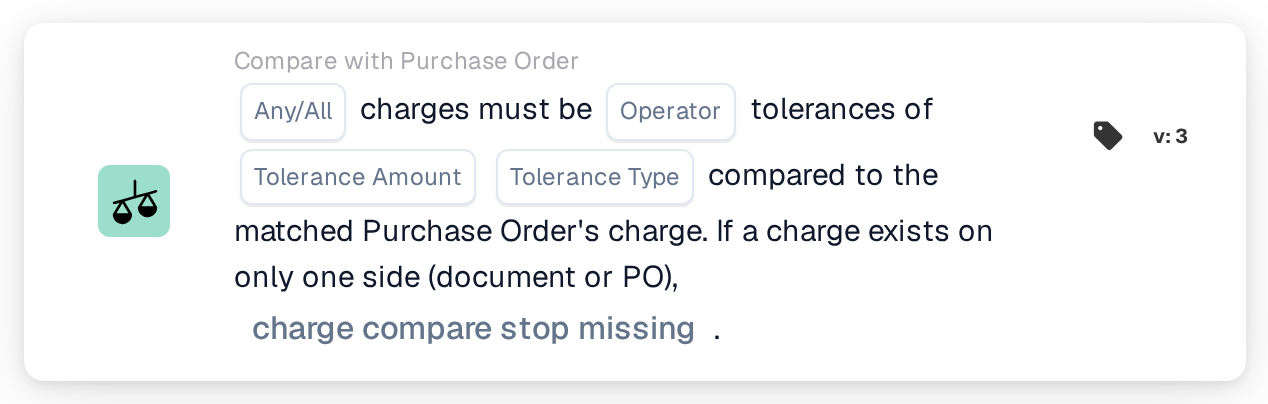
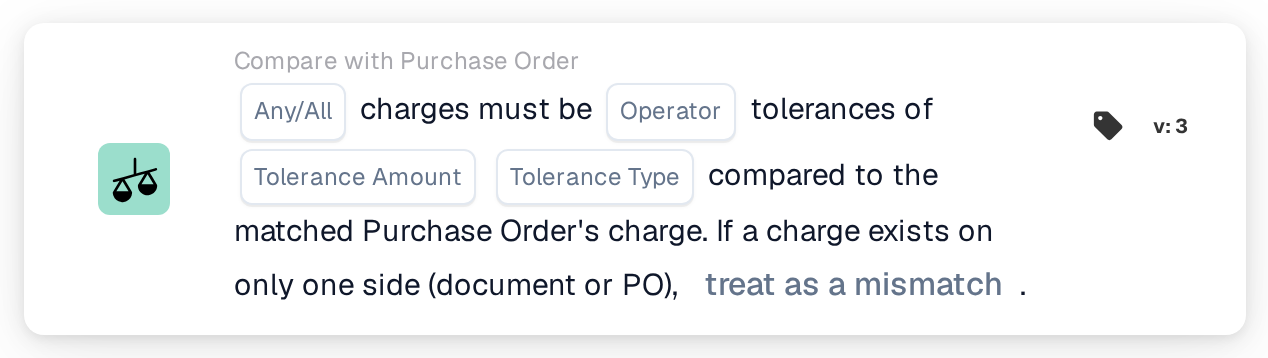
[Documentation_Workflow_Cards] [DRFS-871] add compare charges to po v4

diff --git a/public_docs/administration-and-setup/workflow/cards-overview/and/compare-with-purchase-order/any-all-charges.md b/public_docs/administration-and-setup/workflow/cards-overview/and/compare-with-purchase-order/any-all-charges.md
@@ -4,6 +4,8 @@
 
 <figure><img src="../../../../../.gitbook/assets/workflow_card_condition_compare_charges_to_po_v3.png" alt="Workflow card Compare with Purchase Order: Any/All charges must be Operator tolerances of Tolerance Amount Tolerance Type compared to the matched purchase order&#x27;s charge, with a setting for charges that exist on only one side, version 3" width="634"><figcaption><p>Version 3</p></figcaption></figure>
 
+<figure><img src="../../../../../.gitbook/assets/workflow_card_condition_compare_charges_to_po_v4.png" alt="Workflow card Compare with Purchase Order: Any/All charges must be Operator tolerances of Tolerance Amount Tolerance Type compared to the matched Purchase Order&#x27;s charge; a charge of 0.00 is compared as well. If a charge exists on only one side (document or PO), Missing Data Behaviour, version 4" width="634"><figcaption><p>Version 4</p></figcaption></figure>
+
 ## **Purpose:**
 
 This workflow card compares the additional charges on a document against the additional charges on the matched purchase order, within a defined tolerance. It answers one question: do the document and the purchase order agree about the additional costs? Every charge that purchase order matching paired up is compared, so no field name has to be named on the card.
@@ -31,8 +33,8 @@ Purchase order matching has to run before this card. If the document has no matc
    * **Options**:
      * **Percentage**: a percentage of the purchase order charge.
      * **Value**: a fixed amount.
-5. **Missing Data Behaviour (version 3 only):**
-   * **Description**: What to do when a charge exists on only one side, document or purchase order, so there is no counterpart to compare it against. The option sits at the end of the version 3 sentence.
+5. **Missing Data Behaviour (versions 3 and 4):**
+   * **Description**: What to do when a charge exists on only one side, document or purchase order, so there is no counterpart to compare it against. The option sits at the end of the sentence.
    * **Options**:
      * **treat as a mismatch**: the workflow stops. This is the default.
      * **ignore it and treat as a match**: the workflow continues as if the charge agreed.
@@ -43,7 +45,7 @@ The card runs through the following steps.
 
 1. **It requires a matched purchase order.** With no matched purchase order the card stops immediately and reports missing data.
 2. **It reads the tolerance** from the **Tolerance Amount** and **Tolerance Type** set on the card.
-3. **Version 3 sorts every matched purchase order line** into one of four situations, by asking only whether each side carries any charge at all: charges on both sides, no charges on either side, charges on the document only, or charges on the purchase order only. A line that cannot be resolved against the purchase order data on the document is a data error and the card stops.
+3. **Versions 3 and 4 sort every matched purchase order line** into one of four situations: charges on both sides, no charges on either side, charges on the document only, or charges on the purchase order only. Version 3 asks only whether each side carries a charge above 0.00. Version 4 looks at each charge pair and counts 0.00 as a value; only a charge with no amount at all counts as missing. See **Version Differences** below. A line that cannot be resolved against the purchase order data on the document is a data error and the card stops.
 4. **A charge on one side only settles the whole card.** As soon as one matched line carries charges on one side and none on the other, **Missing Data Behaviour** decides the result and no charge is compared at all, including the charges on lines that are properly paired. The operator and the tolerance are not consulted.
 5. **If no line has charges on either side**, both sides agree there are no additional costs. The **Outside** operator is not satisfied by that, because nothing differs beyond the tolerance, so the workflow stops. Any other operator treats the agreement as satisfied and the workflow continues. **Missing Data Behaviour** has no effect here.
 6. **Otherwise each charge is compared**, document amount against purchase order amount, using the operator and the tolerance. A charge amount that is not a number stops the card with missing data.
@@ -57,7 +59,7 @@ Three consequences are worth knowing before configuring the card.
 
 ## **Setup and Configuration:**
 
-Add the card as an And condition after purchase order matching. Choose whether every charge or any charge has to satisfy the comparison, pick the **Within** or **Outside** operator, and enter the tolerance amount and type. On version 3, choose what should happen when charges appear on one side only.
+Add the card as an And condition after purchase order matching. Choose whether every charge or any charge has to satisfy the comparison, pick the **Within** or **Outside** operator, and enter the tolerance amount and type. On versions 3 and 4, choose what should happen when charges appear on one side only.
 
 To try a configuration without waiting for a document, open the card menu in the Workflow Builder, choose **Test Card**, pick a document and select **Test on Document**. The card log lists every charge that was compared with both amounts, the operator and the tolerance used, and it also records which **Missing Data Behaviour** value resolved the result when a charge was present on one side only.
 
@@ -71,9 +73,25 @@ If neither the order confirmation nor the purchase order carries any charge, the
 
 If the order confirmation carries a freight charge and the purchase order carries none, the operator no longer applies. With **treat as a mismatch** the workflow stops so somebody can check why the charge is on one side only.
 
+If the order confirmation shows the freight charge as 0.00 while the purchase order carries 204.00, version 4 compares the two amounts and the workflow stops with an unmet condition. Version 3 would read the 0.00 as "no charge on the document" and leave the result to **Missing Data Behaviour**.
+
 ## **Version Differences:**
 
-Version 3 is what new cards use. Version 2 remains supported on existing workflows. Both versions compare per charge and combine the results document-wide with the **Any / All** setting, but version 2 has no case classification, which changes what happens whenever charges are not present on both sides:
+Version 4 is what new cards use. Versions 2 and 3 remain supported on existing workflows.
+
+### Version 4 compared with version 3
+
+The two versions have the same settings and the same steps. They differ only in how a charge of 0.00 is treated:
+
+* **Version 3 treats 0.00 as no charge.** A document charge of 0.00 paired with a purchase order charge of 204.00 counts as "the purchase order has charges, the document has none", so **Missing Data Behaviour** decides and the amounts are never compared. With **ignore it and treat as a match** the workflow continues, although the amounts differ.
+* **Version 4 compares 0.00 as an amount.** The same pair is compared like any other: 0.00 against 204.00 is not within the tolerance, so the workflow stops with an unmet condition. A pair with 0.00 on both sides is compared too and agrees.
+* **A charge with no amount is still missing in version 4.** When one side of a pair has no amount at all, for example a charge the purchase order does not carry, **Missing Data Behaviour** decides, as in version 3.
+
+To get this behaviour on an existing workflow, replace the version 3 card with a version 4 card and set the same values.
+
+### Version 2
+
+Version 2 also compares per charge and combines the results document-wide with the **Any / All** setting, but it has no case classification, which changes what happens whenever charges are not present on both sides:
 
 * Version 2 has no **Missing Data Behaviour** option. Its sentence ends after the tolerance type.
 * Version 2 does not sort the matched lines, so it does not recognise a charge that exists on one side only. It compares the amount that is there against the 0.00 held for the missing side, and the operator decides: **Within** is not satisfied and the workflow stops, **Outside** is satisfied and the workflow continues. The card log shows the comparison against 0.00.
@@ -81,4 +99,4 @@ Version 3 is what new cards use. Version 2 remains supported on existing workflo
 
 ## **Conclusion:**
 
-The "Any / All Charges" card automates the check that the additional costs invoiced or confirmed match the additional costs ordered. Because absence of charges on both sides counts as agreement on version 3, documents without additional costs pass without manual intervention, while charges that appear on only one side are held back for review unless that is deliberately allowed.
+The "Any / All Charges" card automates the check that the additional costs invoiced or confirmed match the additional costs ordered. Because absence of charges on both sides counts as agreement on versions 3 and 4, documents without additional costs pass without manual intervention, while charges that appear on only one side are held back for review unless that is deliberately allowed.
